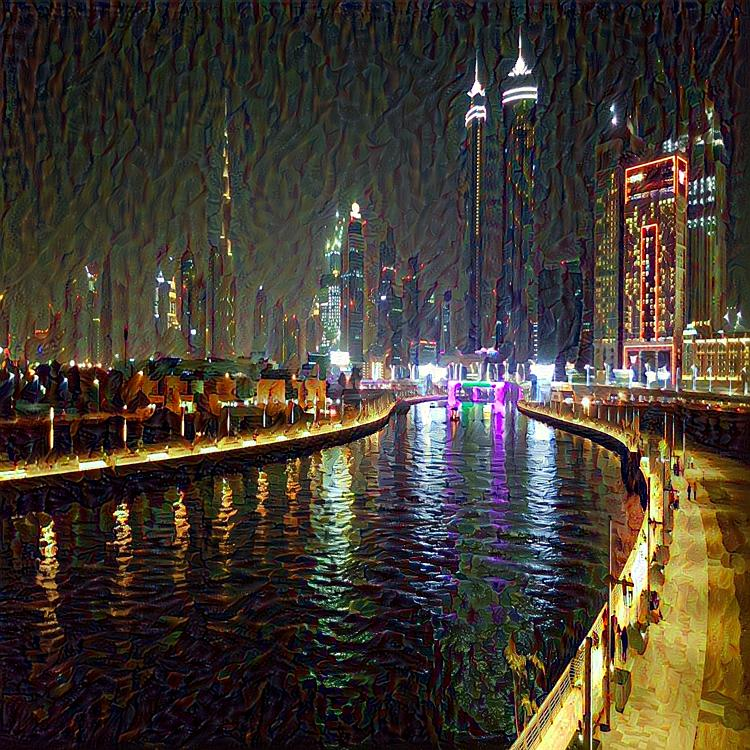
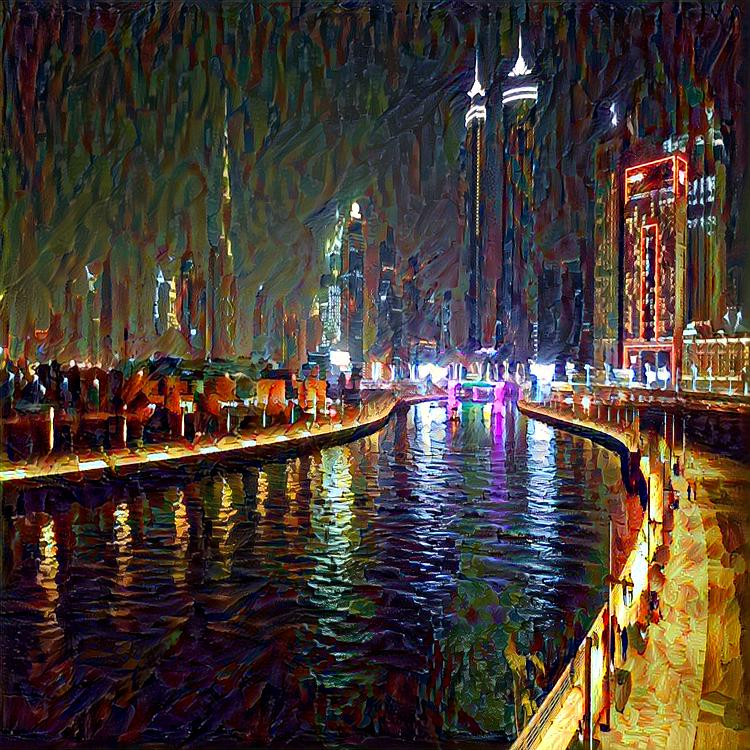
Ran Model

diff --git a/Lab3.py b/Lab3.py
@@ -30,11 +30,11 @@ CONTENT_IMG_W = 750
 STYLE_IMG_H = 750
 STYLE_IMG_W = 750
 
-CONTENT_WEIGHT = 0.01  # Alpha weight.
+CONTENT_WEIGHT = 1e-12  # Alpha weight.
 STYLE_WEIGHT = 0.99  # Beta weight.
 TOTAL_WEIGHT = 6e-6
 
-TRANSFER_ROUNDS = 20
+TRANSFER_ROUNDS = 14
 
 # =============================<Helper Fuctions>=================================
 '''
@@ -171,7 +171,7 @@ def styleTransfer(cData, sData, tData):
     print("   Beginning transfer.")
     for i in range(TRANSFER_ROUNDS):
         print("   Step %d." % i)
-        gen_new, gen_loss, _ = fmin_l_bfgs_b(func=k_f, x0=gen, maxiter=10)
+        gen_new, gen_loss, _ = fmin_l_bfgs_b(func=k_f, x0=gen, maxiter=50)
 
         gen = np.copy(gen_new)
         print("      Loss: ", gen_loss)
